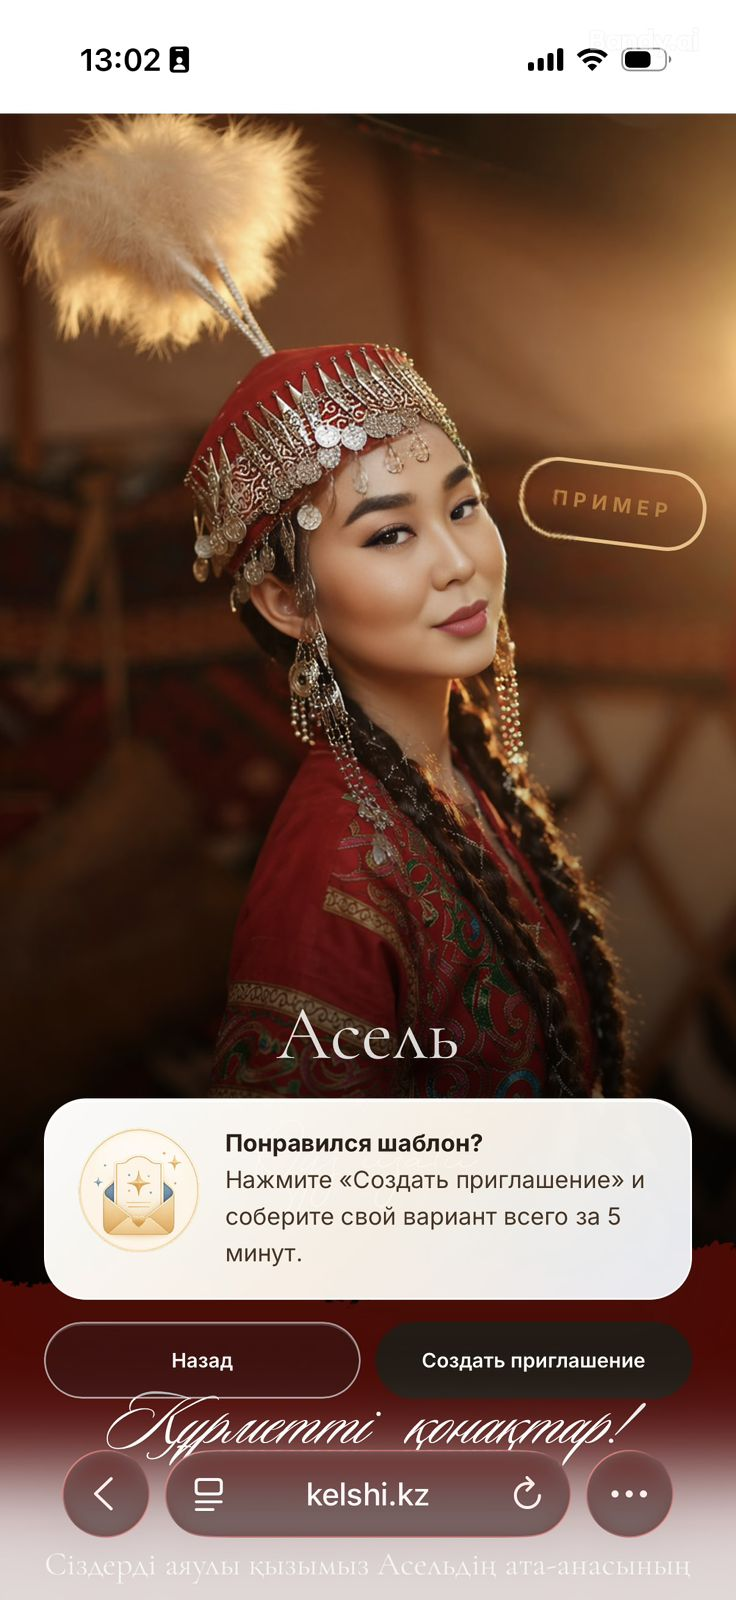
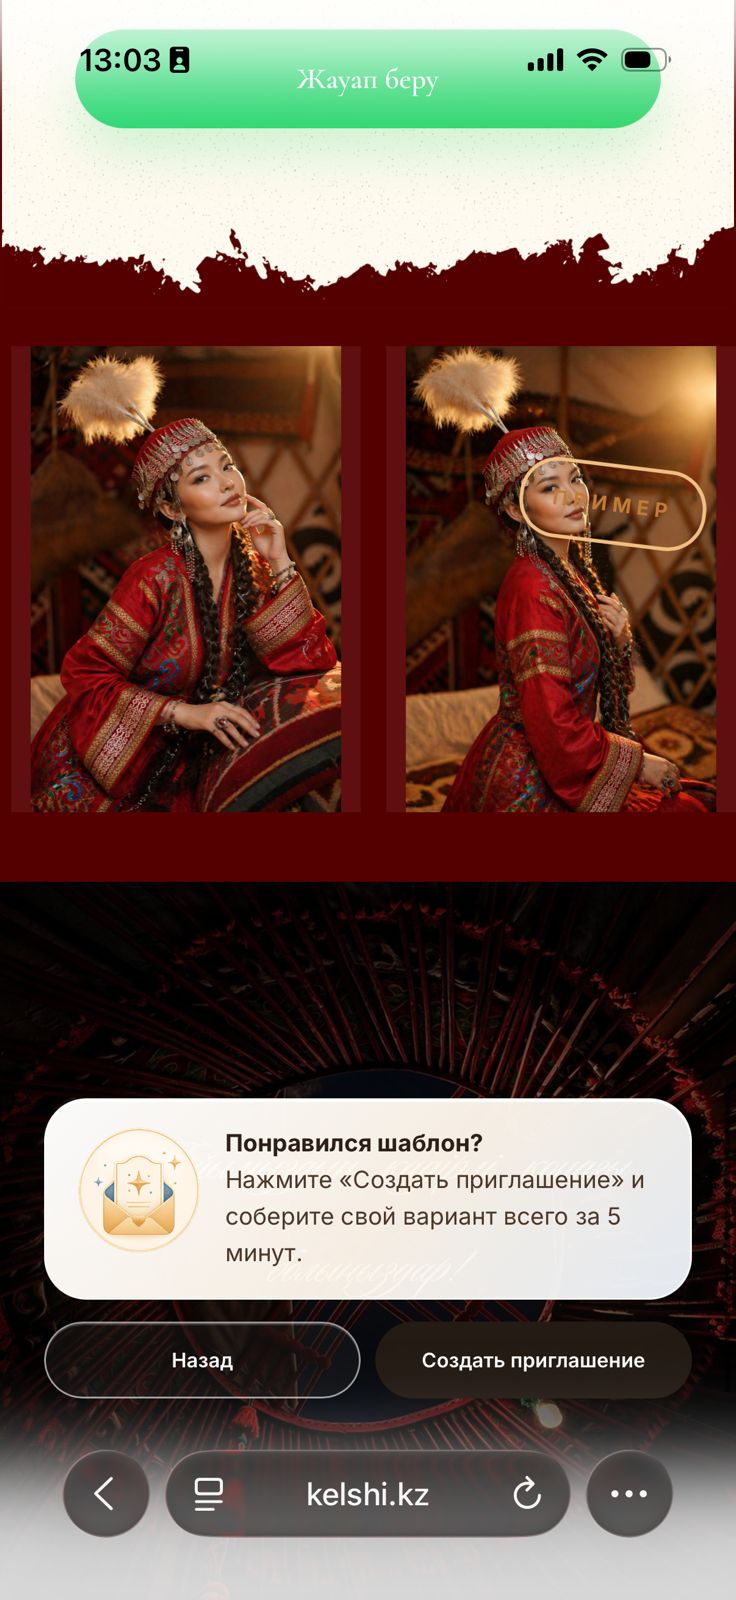
Use WhatsApp photos from Downloads for hero and gallery

diff --git a/index.html b/index.html
@@ -319,11 +319,11 @@
   <div class="sec-head r"><span class="sec-script">Сурет галереясы</span></div>
   <div class="photo-grid r">
     <div class="photo-frame">
-      <img src="https://images.unsplash.com/photo-1583795128727-6ec3642408f8?w=600&q=80" alt="" loading="lazy"/>
+      <img src="photo2.jpg" alt="" loading="lazy"/>
       <div class="photo-overlay"><span class="photo-cap">Арайлым</span></div>
     </div>
     <div class="photo-frame">
-      <img src="https://images.unsplash.com/photo-1540575467063-178a50c2df87?w=600&q=80" alt="" loading="lazy"/>
+      <img src="photo3.jpg" alt="" loading="lazy"/>
       <div class="photo-overlay"><span class="photo-cap">Ұзату тойы</span></div>
     </div>
   </div>